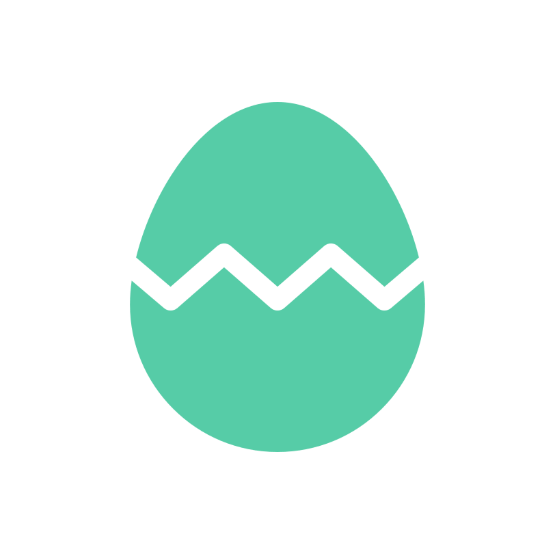
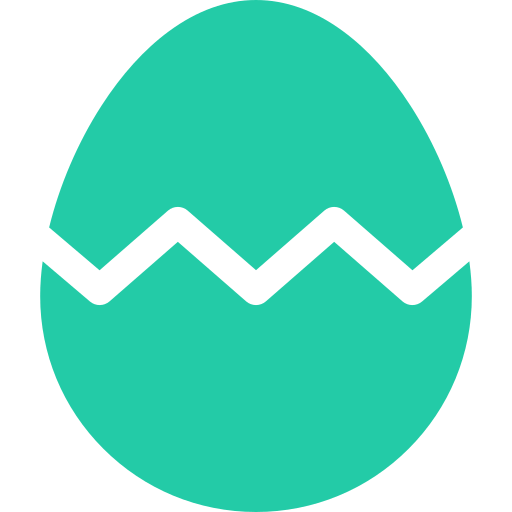
improve main color

diff --git a/src/components/Reuseable/CardPokemon/CardPokemon.tsx b/src/components/Reuseable/CardPokemon/CardPokemon.tsx
@@ -61,7 +61,7 @@ const card_style: ChakraProps = {
   border: '1px solid rgba(0,0,0,.125)',
   borderRadius: '20px',
   overflow: 'hidden',
-  boxShadow: '7px 7px 0 #56cca7',
+  boxShadow: '7px 7px 0 #23CBA7',
   transition: 'all 0.25s',
   position: 'relative',
   _hover: {
@@ -92,7 +92,7 @@ const owned_style: ChakraProps = {
   position: 'absolute',
   top: '9.5rem',
   left: '0rem',
-  border: '0.2rem solid #56cca7',
+  border: '0.2rem solid #23CBA7',
   borderLeft: 'none',
   height: '1.8rem',
   width: '5.5rem',

diff --git a/src/components/DetailPage/child/CatchButton.tsx b/src/components/DetailPage/child/CatchButton.tsx
@@ -31,7 +31,7 @@ const CatchButton = ({
             style={{ ...rounded_button, backgroundColor: bgColor }}
             onClick={() => navigate(-1)}
           >
-            <Image alt="Dark" src={LeftArrow} height="20px" width="20px" />
+            <Image alt="back" src={LeftArrow} height="20px" width="20px" />
           </button>
           <Link to="/collection">
             <button type="button" style={{ ...pokemon_button, backgroundColor: bgColor }}>

diff --git a/src/components/HomePage/Child/CollectionButton.tsx b/src/components/HomePage/Child/CollectionButton.tsx
@@ -65,7 +65,7 @@ const footer_flex: ChakraProps = {
 };
 
 const pokemon_button = {
-  backgroundColor: '#57cca7',
+  backgroundColor: '#23CBA7',
   color: 'white',
   height: '3.4rem',
   width: '13rem',
@@ -90,7 +90,7 @@ const count_box: ChakraProps = {
 };
 
 const rounded_button = {
-  backgroundColor: '#57cca7',
+  backgroundColor: '#23CBA7',
   height: '3.4rem',
   width: '3.4rem',
   borderRadius: '3.5rem',

diff --git a/src/index.tsx b/src/index.tsx
@@ -28,7 +28,7 @@ const theme = extendTheme({
       text: '#27201a',
     },
     primary: {
-      green: '#56cca7',
+      green: '#23CBA7',
     },
   },
 });
